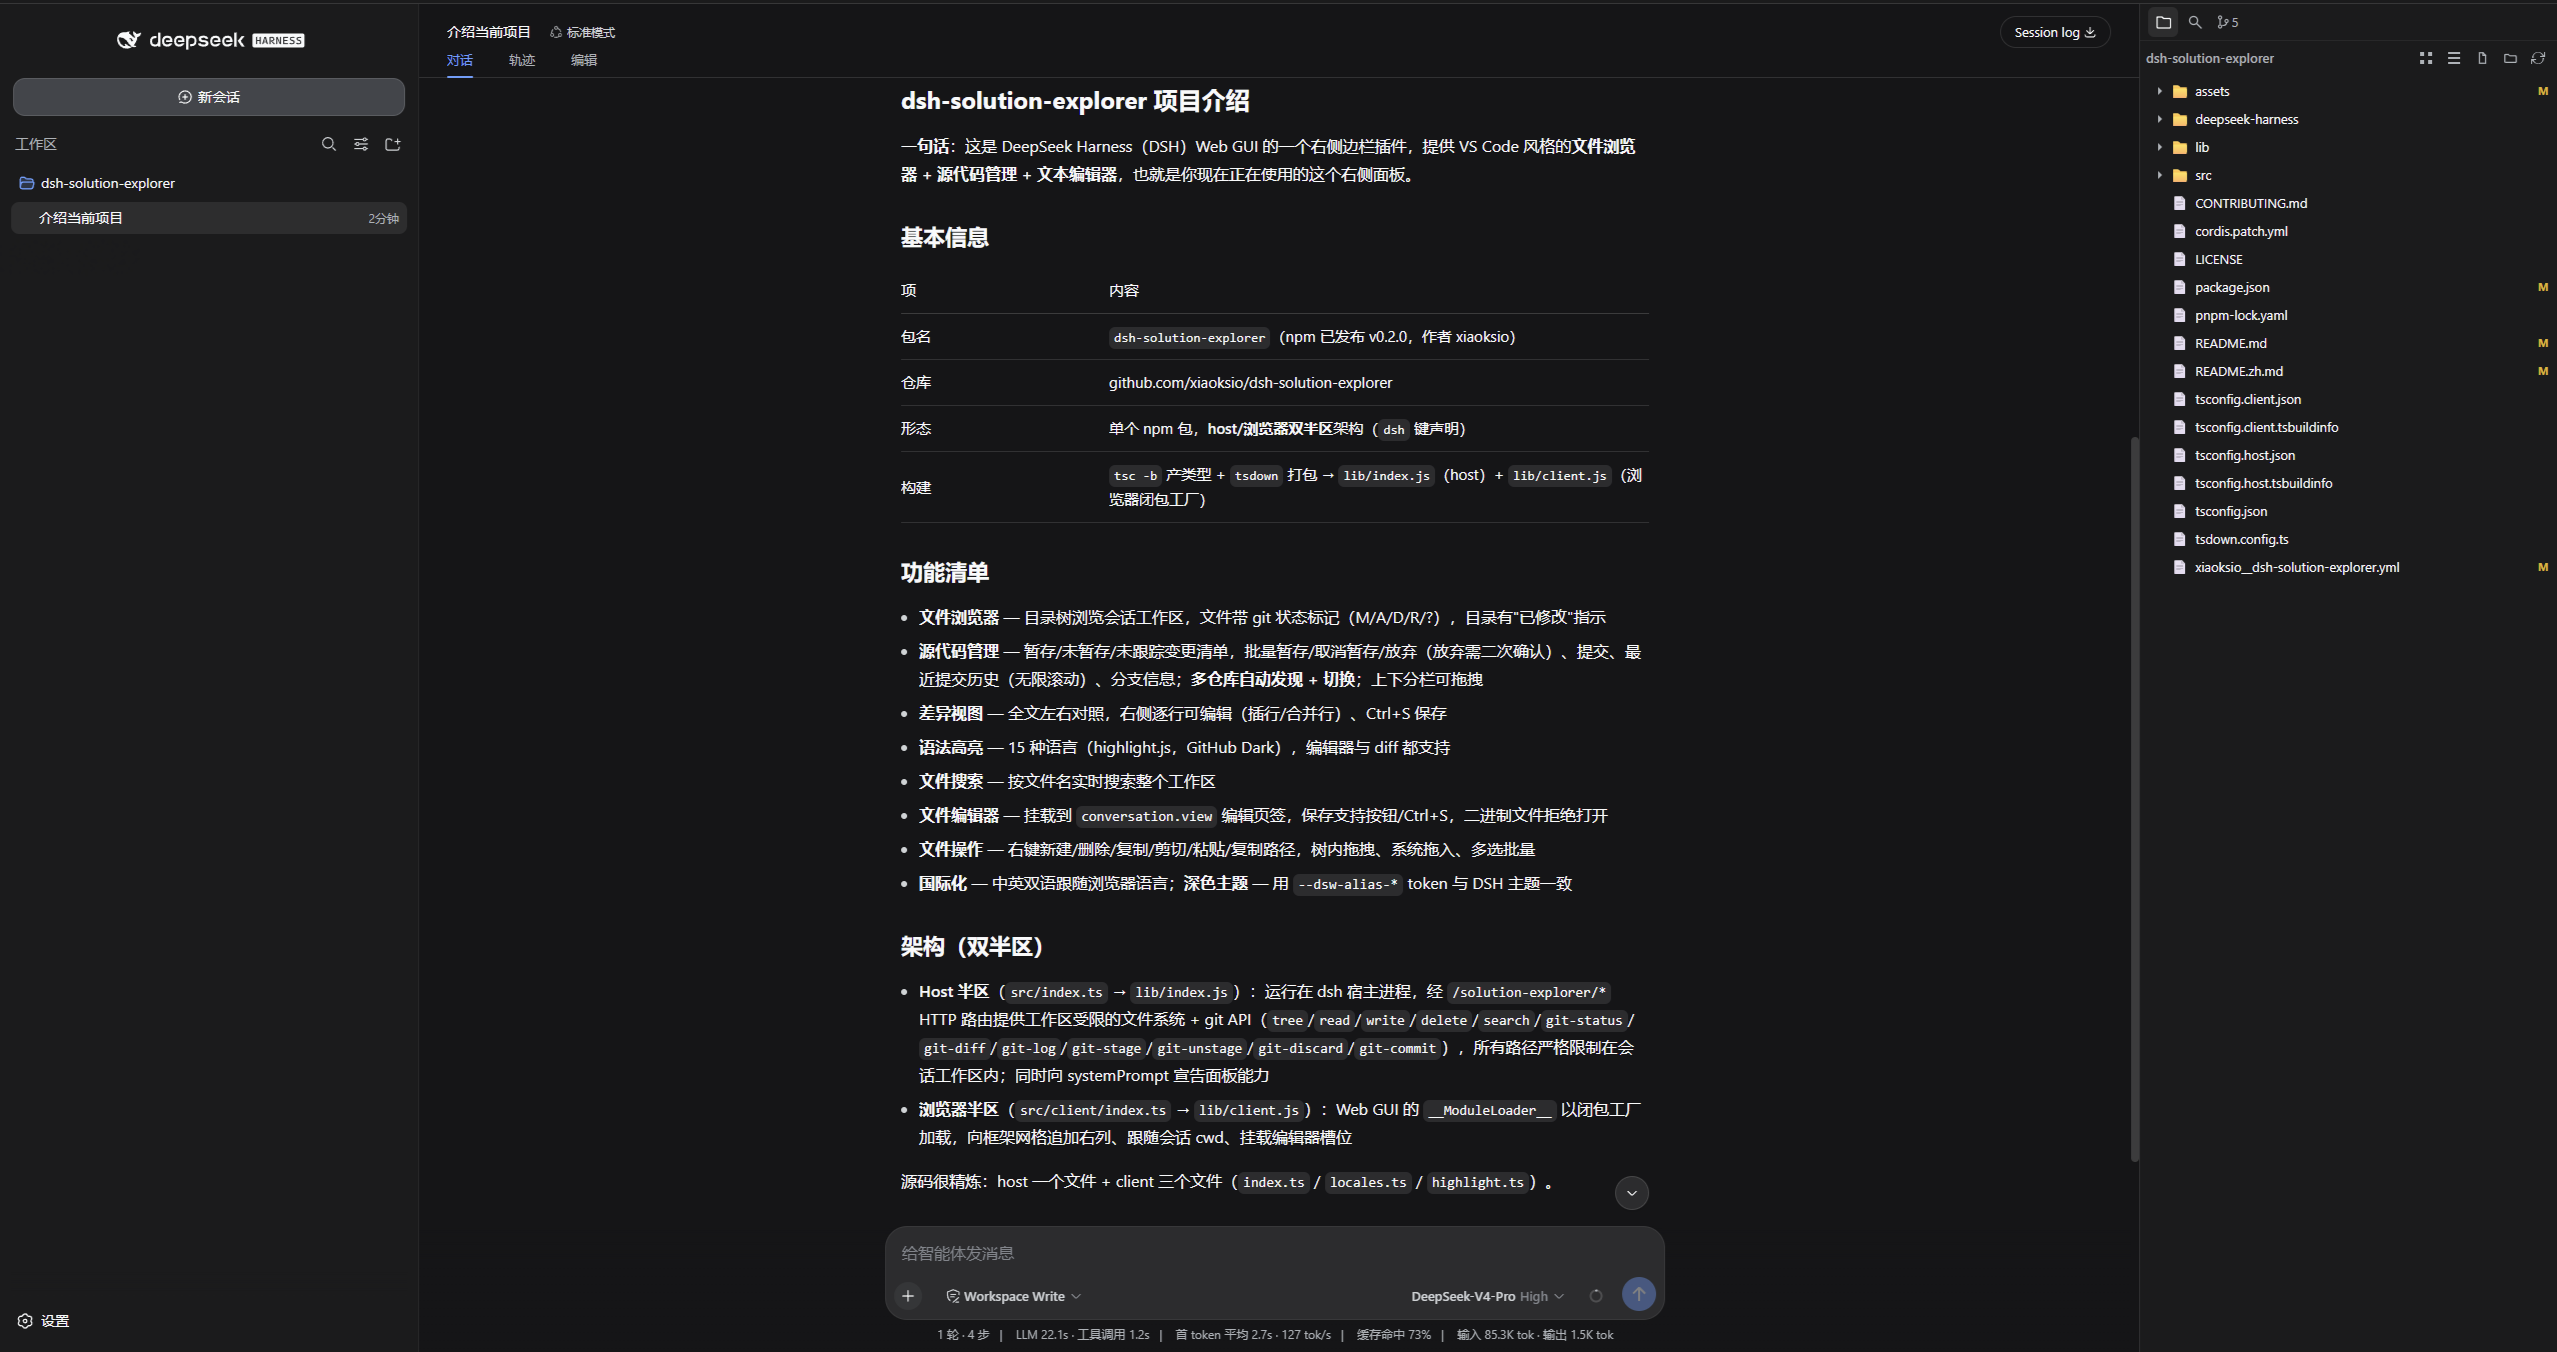
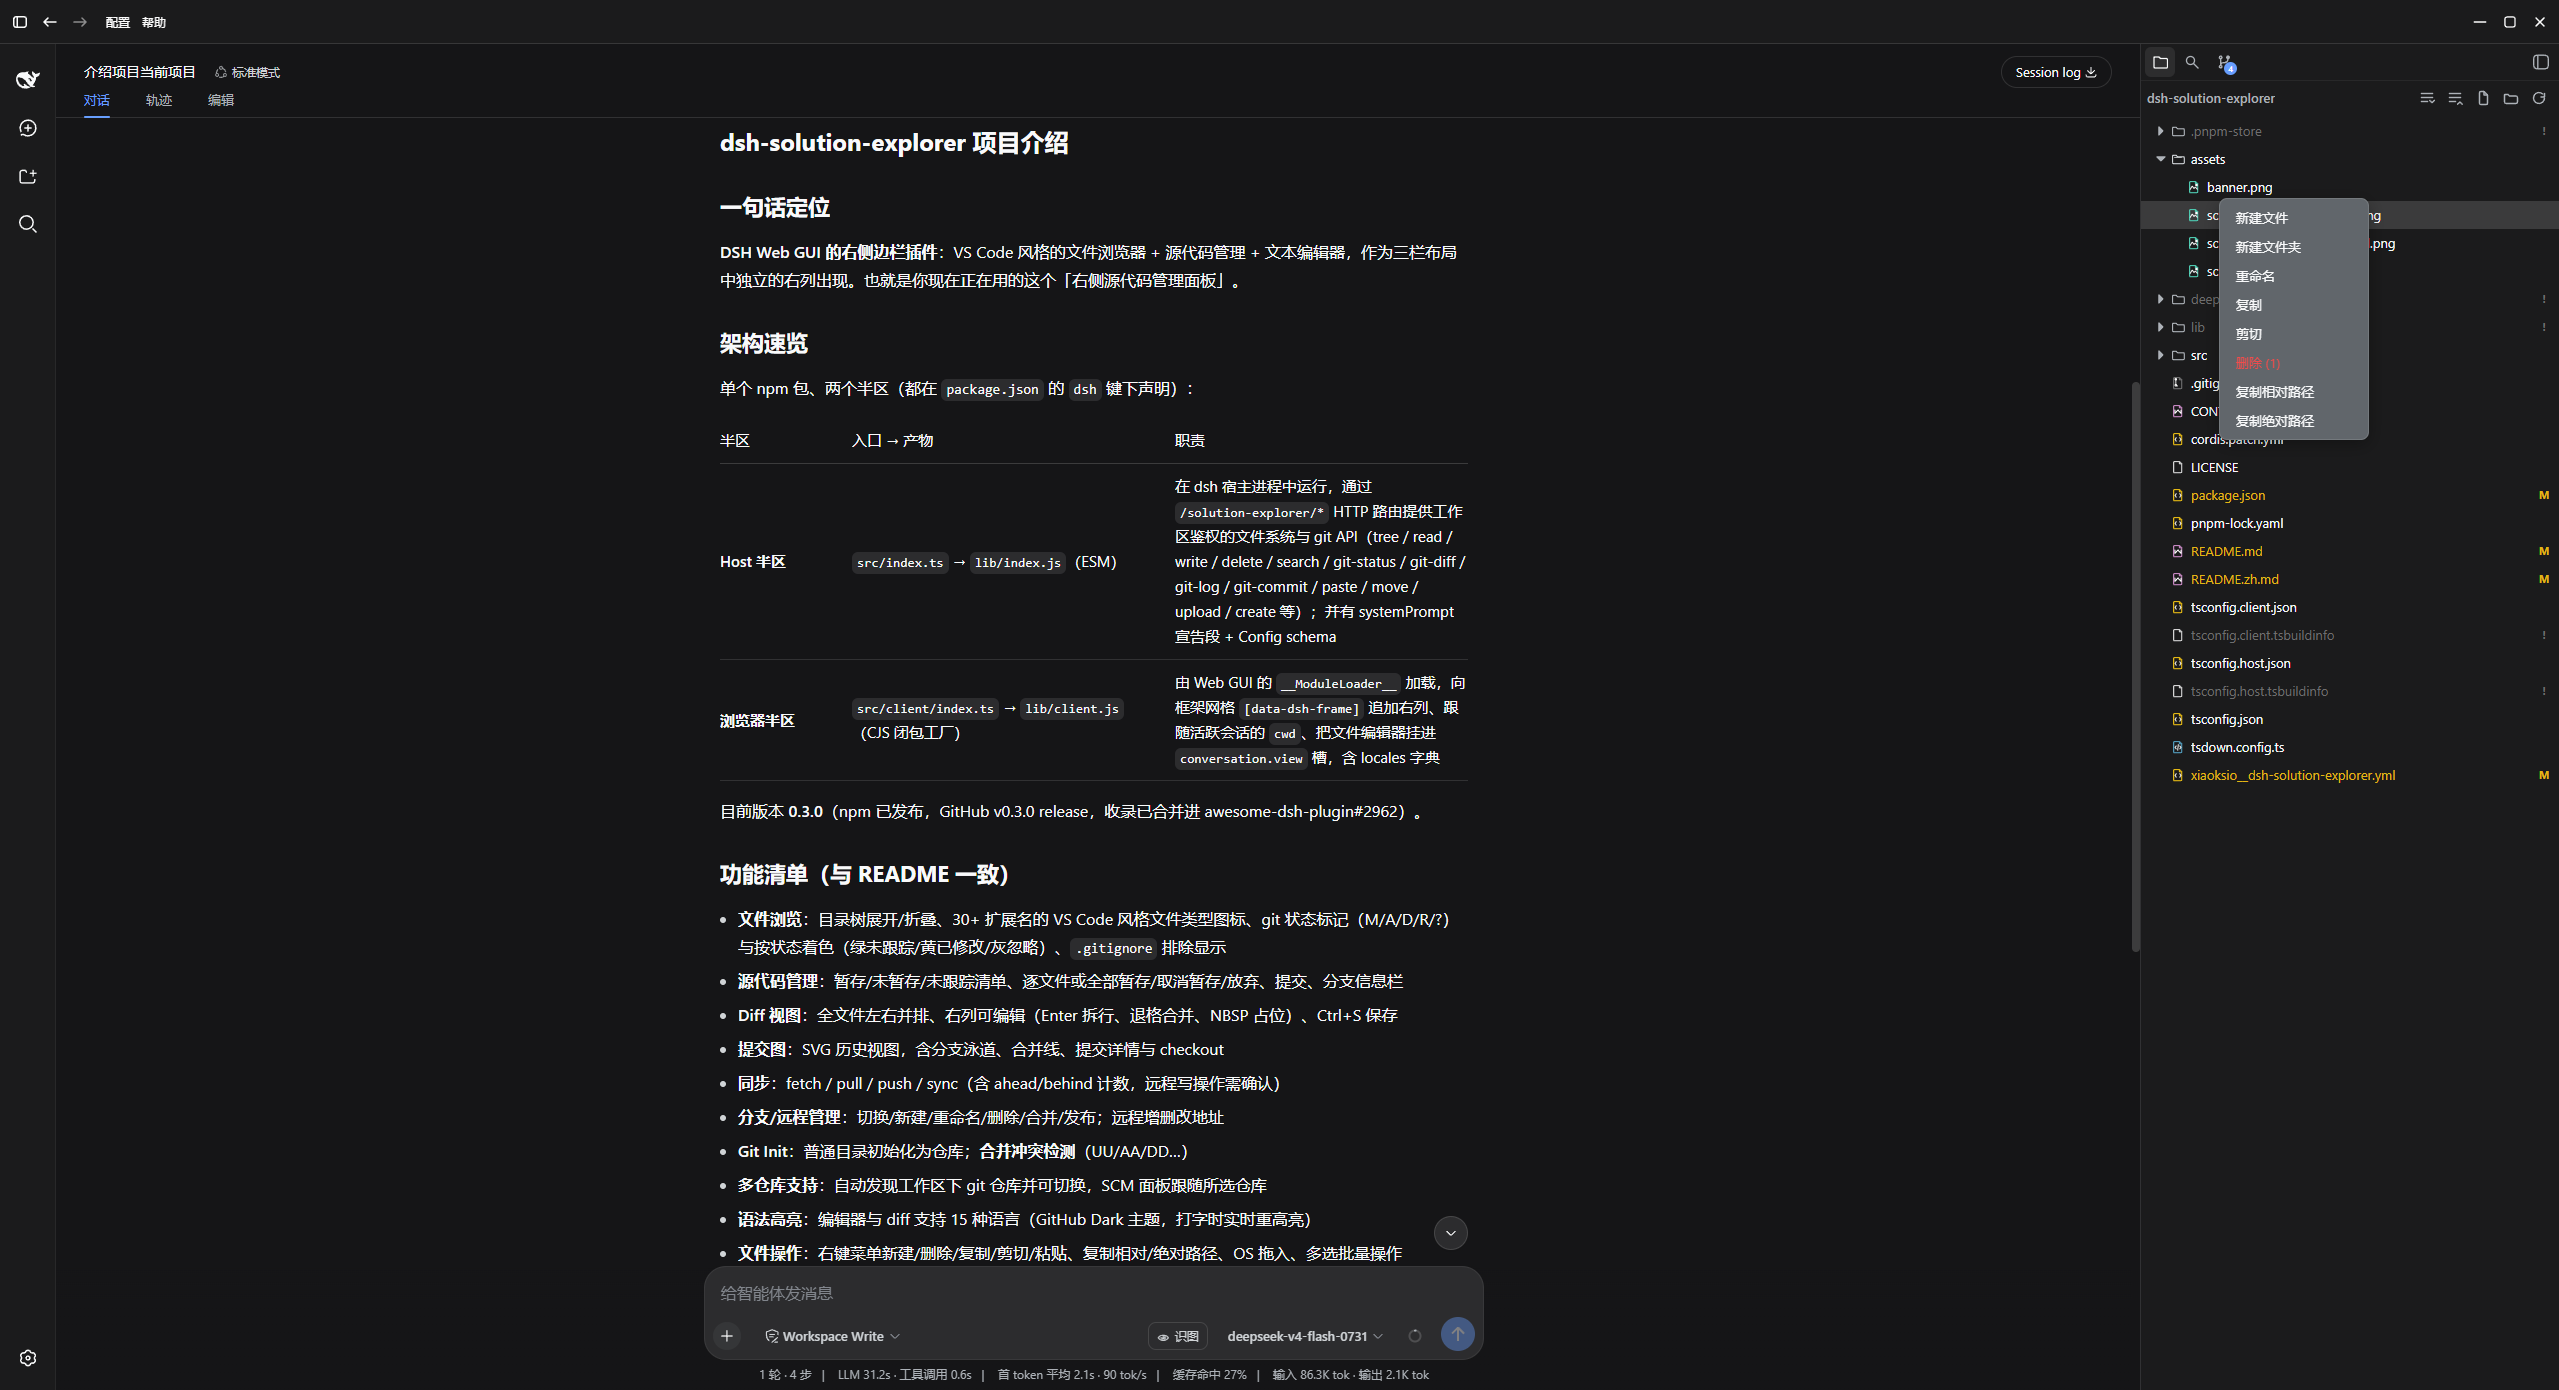
docs: 优化 README 与截图，更新收录截图约定
- README 描述更新为全量版，补 awesome/license 徽章，加 dsh-market 安装方式
- 替换面板截图为 v0.4.0 版本，新增 demo.gif 动图
- 补 screenshots.json（新收录约定），删 banner.png
- 配置表补 showHidden，修正 defaultWidth 上限
- package.json 描述同步全量版，版本 0.4.0
- AGENTS.md 更新截图约定与发布状态

diff --git a/README.zh.md b/README.zh.md
@@ -1,14 +1,16 @@
 # dsh-solution-explorer
 
-![dsh-solution-explorer banner](assets/banner.png)
+![dsh-solution-explorer demo](demo.gif)
 
 [English](README.md) | [中文](README.zh.md)
 
 [![npm](https://img.shields.io/npm/v/dsh-solution-explorer)](https://www.npmjs.com/package/dsh-solution-explorer)
 [![npm downloads](https://img.shields.io/npm/dm/dsh-solution-explorer)](https://www.npmjs.com/package/dsh-solution-explorer)
 [![GitHub stars](https://img.shields.io/github/stars/xiaoksio/dsh-solution-explorer)](https://github.com/xiaoksio/dsh-solution-explorer)
+[![awesome](https://awesome.re/mentioned-badge.svg)](https://github.com/awesome-dsh-plugin/awesome-dsh-plugin)
+[![license](https://img.shields.io/github/license/xiaoksio/dsh-solution-explorer)](LICENSE)
 
-DSH Web GUI 右侧边栏插件：VS Code 风格文件浏览器 + 源代码管理（git 状态、暂存/取消暂存/放弃变更、提交、差异）+ 带保存功能的文本编辑器，全部位于三列布局右侧的独立列中。
+DSH Web GUI 右侧边栏插件：VS Code 风格文件浏览器加源代码管理（git 状态、暂存/取消暂存/放弃变更、提交、差异、提交图形、同步抓取/拉取/推送、分支/远程管理、Git 初始化、多仓库切换、文件状态着色、文件类型图标、图片预览），含可编辑全文差异视图、语法高亮编辑器（15 种语言）、文件操作（新建/移动/复制/删除）与保存。
 
 ## 功能
 
@@ -16,7 +18,8 @@ DSH Web GUI 右侧边栏插件：VS Code 风格文件浏览器 + 源代码管理
 - **源代码管理** — 暂存/未暂存/未跟踪变更清单，支持逐个或全部暂存、取消暂存、放弃变更，带提交信息的提交与分支信息。**差异视图**：全文左右对照，右侧可逐行编辑（回车插行/合并行、NBSP 占位）、Ctrl+S 保存。**提交图形（Commit Graph）**：SVG 分支线/合并线历史视图，点击查看提交详情（作者/日期/父提交/变更文件），支持 Checkout。**仓库同步**：抓取/拉取/推送/同步（拉取+推送），显示 ahead/behind 计数，远程写操作均二次确认。**分支管理**：切换/新建/重命名/删除/合并/发布。**远程仓库**：添加/删除/修改地址。**Git 初始化**：普通目录一键初始化。**合并冲突**：pull/merge 冲突（UU/AA/DD…）自动检测并列出，手动解决。**多仓库支持**：自动发现工作区下多个 git 仓库，可点击切换，SCM 面板跟随选中仓库。**上下分栏**：更改区与存储库区可拖拽调整占比，历史列表填满底部。批量操作位于分区头，放弃所有需二次确认。
 - **语法高亮** — 编辑器与差异视图均支持 15 种语言（TS/JS/Python/JSON/Markdown/…）的语法着色（GitHub Dark 主题），编辑器输入实时高亮，性能轻量。
 - **文件搜索** — 按文件名实时搜索整个工作区。
-- **文件编辑器** — 在会话视图的"编辑"页签打开任意文本文件，编辑后保存（按钮或 Ctrl+S）；二进制文件会被识别并拒绝打开，避免损坏。
+- **文件编辑器** — 在会话视图的"编辑"页签打开任意文本文件，编辑后保存（按钮或 Ctrl+S）；图片在编辑器内以缩放/平移预览打开，其余二进制文件会被识别并拒绝打开，避免损坏。
+- **折叠窄条（rail）** — 整个面板可收起为一条窄图标栏（展开面板、文件浏览器、搜索、源代码管理）；源代码管理图标带实时变更计数徽标，点击任一图标即在对应页签重新展开面板，视觉与原生侧边栏一致。
 - **文件操作** — 右键菜单支持新建文件/文件夹、删除（确认对话框）、复制/剪切/粘贴、复制相对/绝对路径；支持树内拖拽移动、从系统拖入文件、多选批量操作。
 - **国际化** — 中英双语，跟随浏览器语言。
 - **深色主题** — 与 DSH Web UI 主题 token 一致。
@@ -29,12 +32,9 @@ DSH Web GUI 右侧边栏插件：VS Code 风格文件浏览器 + 源代码管理
 
 ## 安装
 
-### 本地目录安装
+### 从 dsh-market 安装（GUI）
 
-```sh
-# 指向本仓库；包声明了 dsh.bundle manifest，会被作为 web profile 的激活 bundle 层加入
-dsh plugin --profile web add /path/to/dsh-solution-explorer
-```
+在 DSH Web UI 中打开插件市场，搜索"solution-explorer"，点击安装。
 
 ### 从 npm 安装
 
@@ -42,10 +42,10 @@ dsh plugin --profile web add /path/to/dsh-solution-explorer
 dsh plugin --profile web add dsh-solution-explorer
 ```
 
-### 从 GitHub Release 安装（预构建 tarball）
+### 本地目录安装
 
 ```sh
-dsh plugin --profile web add https://github.com/xiaoksio/dsh-solution-explorer/releases/latest/download/dsh-solution-explorer-0.2.1.tgz
+dsh plugin --profile web add /path/to/dsh-solution-explorer
 ```
 
 安装后刷新 Web UI。会话打开工作区后，资源管理器面板会作为独立右列出现。
@@ -56,9 +56,10 @@ dsh plugin --profile web add https://github.com/xiaoksio/dsh-solution-explorer/r
 
 | 字段 | 类型 | 默认值 | 说明 |
 |------|------|--------|------|
-| `defaultWidth` | `number` | `280` | 面板宽度（px），限制在 264–420。 |
+| `defaultWidth` | `number` | `280` | 面板宽度（px），限制在 264–560。 |
 | `autoOpen` | `boolean` | `true` | 会话激活时自动打开面板。 |
 | `filterPatterns` | `string[]` | `[]` | 从文件树中隐藏的名称模式。 |
+| `showHidden` | `boolean` | `false` | 在文件树中显示点前缀（隐藏）文件。 |
 
 ## 开发
 

diff --git a/README.md b/README.md
@@ -1,17 +1,21 @@
 # dsh-solution-explorer
 
-![dsh-solution-explorer banner](assets/banner.png)
+![dsh-solution-explorer demo](demo.gif)
 
 [English](README.md) | [中文](README.zh.md)
 
 [![npm](https://img.shields.io/npm/v/dsh-solution-explorer)](https://www.npmjs.com/package/dsh-solution-explorer)
 [![npm downloads](https://img.shields.io/npm/dm/dsh-solution-explorer)](https://www.npmjs.com/package/dsh-solution-explorer)
 [![GitHub stars](https://img.shields.io/github/stars/xiaoksio/dsh-solution-explorer)](https://github.com/xiaoksio/dsh-solution-explorer)
+[![awesome](https://awesome.re/mentioned-badge.svg)](https://github.com/awesome-dsh-plugin/awesome-dsh-plugin)
+[![license](https://img.shields.io/github/license/xiaoksio/dsh-solution-explorer)](LICENSE)
 
 Right-sidebar plugin for the DSH Web GUI: a VS Code-style file explorer plus
-source control management (git status, stage/unstage/discard, commit, diff) and
-a text editor with save, all in a dedicated right column of the three-column
-layout.
+source control (git status, stage/unstage/discard, commit, diff, commit graph,
+sync fetch/pull/push, branch/remote management, git init, multi-repo switch,
+color-coded file status, file-type icons, image preview) with an editable
+full-file diff view, a syntax-highlighted editor (15 languages), file operations
+(new/move/copy/delete), and save.
 
 ## Features
 
@@ -43,8 +47,13 @@ layout.
   re-highlights live while typing, lightweight.
 - **File Search** — live name search across the workspace.
 - **File Editor** — open any text file in an "Edit" tab of the conversation
-  view, edit, and save (button or Ctrl+S); binary files are detected and
-  refused instead of corrupted.
+  view, edit, and save (button or Ctrl+S); images open in an in-editor
+  preview with zoom/pan, and other binary files are detected and refused
+  instead of corrupted.
+- **Collapsible rail** — collapse the whole panel into a narrow icon rail
+  (expand panel, explorer, search, source control). The source-control icon
+  shows a live change-count badge; clicking an icon reopens the panel on that
+  tab, matching the native sidebar's look.
 - **File operations** — context menu with new file/folder, delete (confirm
   dialog), copy / cut / paste, copy relative / absolute path; drag files within
   the tree, drag files in from the OS, multi-select bulk actions.
@@ -59,13 +68,10 @@ layout.
 
 ## Installation
 
-### From a local checkout
+### From dsh-market (GUI)
 
-```sh
-# Point dsh at this checkout; the package declares a dsh.bundle manifest so it
-# is added as an active bundle layer of the web profile.
-dsh plugin --profile web add /path/to/dsh-solution-explorer
-```
+Open the marketplace in the DSH Web UI, search for "solution-explorer", and
+click install.
 
 ### From npm
 
@@ -73,10 +79,10 @@ dsh plugin --profile web add /path/to/dsh-solution-explorer
 dsh plugin --profile web add dsh-solution-explorer
 ```
 
-### From a GitHub Release (prebuilt tarball)
+### From a local checkout
 
 ```sh
-dsh plugin --profile web add https://github.com/xiaoksio/dsh-solution-explorer/releases/latest/download/dsh-solution-explorer-0.2.1.tgz
+dsh plugin --profile web add /path/to/dsh-solution-explorer
 ```
 
 After installing, reload the Web UI. The explorer panel appears as its own right
@@ -89,9 +95,10 @@ The plugin accepts an optional `config` in the bundle row
 
 | Field | Type | Default | Description |
 |-------|------|---------|-------------|
-| `defaultWidth` | `number` | `280` | Panel width in px, clamped to 264–420. |
+| `defaultWidth` | `number` | `280` | Panel width in px, clamped to 264–560. |
 | `autoOpen` | `boolean` | `true` | Auto-open the panel when a session activates. |
 | `filterPatterns` | `string[]` | `[]` | Name patterns to hide from the file tree. |
+| `showHidden` | `boolean` | `false` | Show dot-prefixed (hidden) files in the tree. |
 
 ## Development
 
